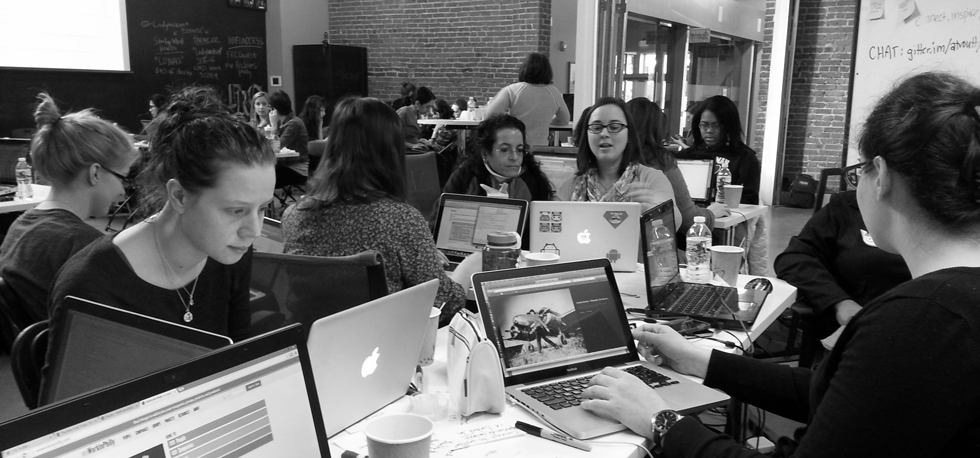
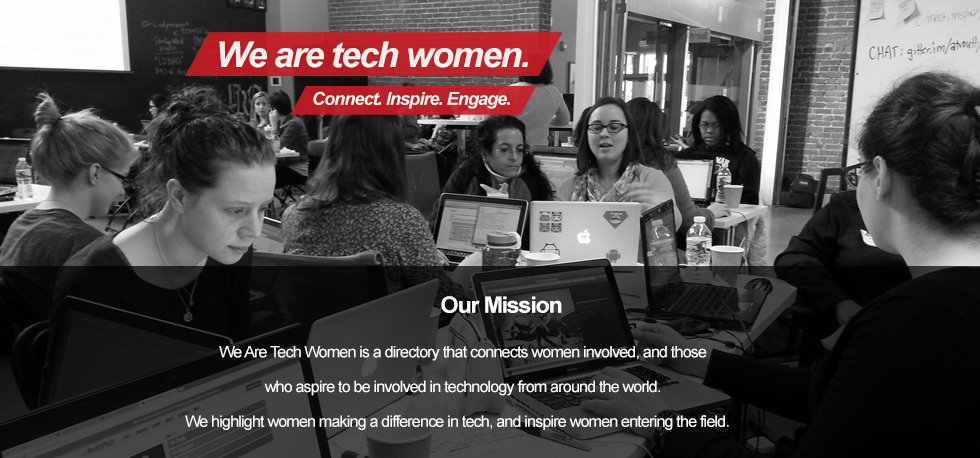
edit css for home page, add images, add markup, inline html

Changed region(s): [[0.0, 0.5808, 0.8878, 1.0], [0.1837, 0.0611, 0.5816, 0.2751], [0.8878, 0.5808, 1.0, 0.6419]]

diff --git a/public/stylesheets/desktop.css b/public/stylesheets/desktop.css
@@ -662,7 +662,8 @@ pre.widget {
 /* March 8, 2014 - 2014 Ladyhacks css */
 
 #content {
-  border: 1px solid red;
+/*  border: 1px solid red;
+*/  margin-top: 0;
 }
 /* Home Page styles*/
 #hellobar-container {
@@ -671,7 +672,6 @@ pre.widget {
 }
 #hellobar-container.texture {
 background:#000000;
-
 }
 
 #hellobar-shadow {
@@ -682,28 +682,98 @@ display: none;
 z-index: 50;
 background-color: #ffffff;
 background-image: none;
+font-family: verdana , arial, sans-serif;
 }
 
 #home_to {
   display: none;
 }
+#site_intro {
+  margin-top: 0;
+  width: 100%;
+  height: 458px;
+  background: url("../images/site/top_backgroundimage.jpg") no-repeat;
+  text-align:center;
+}
+#site_intro .awesome {
+  display:none;
+  margin-top: 40px;
+  color: #ffffff;
+  background-color: #000000;
+  width: 70%;
+}
+#site_intro .awesome_tagline {
+  width: 70%;
+  display:none;
+}
+#site_intro .awesome_wrapper {
+  display:none;
+  margin-top: 230px;
+  background-color: #000000;
+ opacity: 0.21; 
+-moz-opacity: 0.2;
+-ms-filter:'progid:DXImageTransform.Microsoft.Alpha'(Opacity=0.21);
+}
+
+#site_intro .headline h2 {
+  display:none;
+  font-size: 60px;
+  padding: 10px;
+  width: auto;
+  text-align: left;
+  color: #ffffff;
+  z-index: 500;
+  background-color: #c81c24;
+}
+#site_intro .tagline h2 {
+  display:none;
+  width: auto;
+  text-align: left;
+  color: #ffffff;
+    z-index: 500;
+      background-color: #c81c24;
+
+
+}
 #front_nav {
-  border: 1px solid red;
-  width: 75%;
-  clear:both;
+  /*border: 1px solid red;*/
+width: 100%;
+height: auto;
+  /*width: 780px;*/
+  float: left;
+  clear: both;
   overflow: hidden;
   margin: 0 auto;
 }
-#front_nav li {
-
+#front_nav li, li:hover{
+background: transparent;
 display: inline-block;
-margin: 0 0 5px;
+margin:0 50px;
+text-align: center;
 }
-#front_nav li a {
-  width: 100px;
-height: 100px;
+#front_nav li > a {
+color: #000000;
+}
+#front_nav li.people a, 
+#front_nav li.people a:hover,
+#front_nav li.companies a, 
+#front_nav li.companies a:hover,
+#front_nav li.groups a, 
+#front_nav li.groups a:hover,
+#front_nav li.projects a, 
+#front_nav li.projects a:hover,
+#front_nav li.resources a, 
+#front_nav li.resources a:hover {
+  background-color:#ffffff;
 }
 
+#footer {
+  text-align: center;
+}
+#footer  a {
+  color:#c81c24;
+}
+/*
 #front_nav li.people a {
   background: url("../images/site/people.png") no-repeat;
 }
@@ -719,10 +789,15 @@ height: 100px;
 #front_nav li.resources a {
   background: url("../images/site/resources.png") no-repeat;
 }
-#front_nav li a .count  {
-  display: none;
-}
 
+
+#front_nav li a:hover {
+  background-color: none;
+}*/
+
+#front_nav li a .count  {
+  
+}
 /* Top Nav Styles*/
 
 
